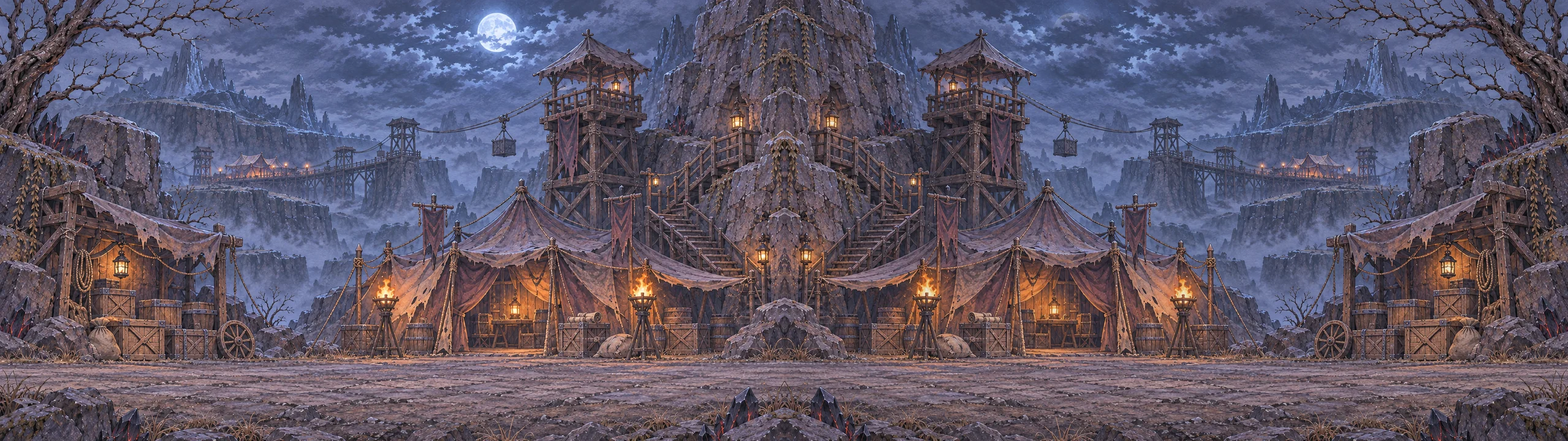
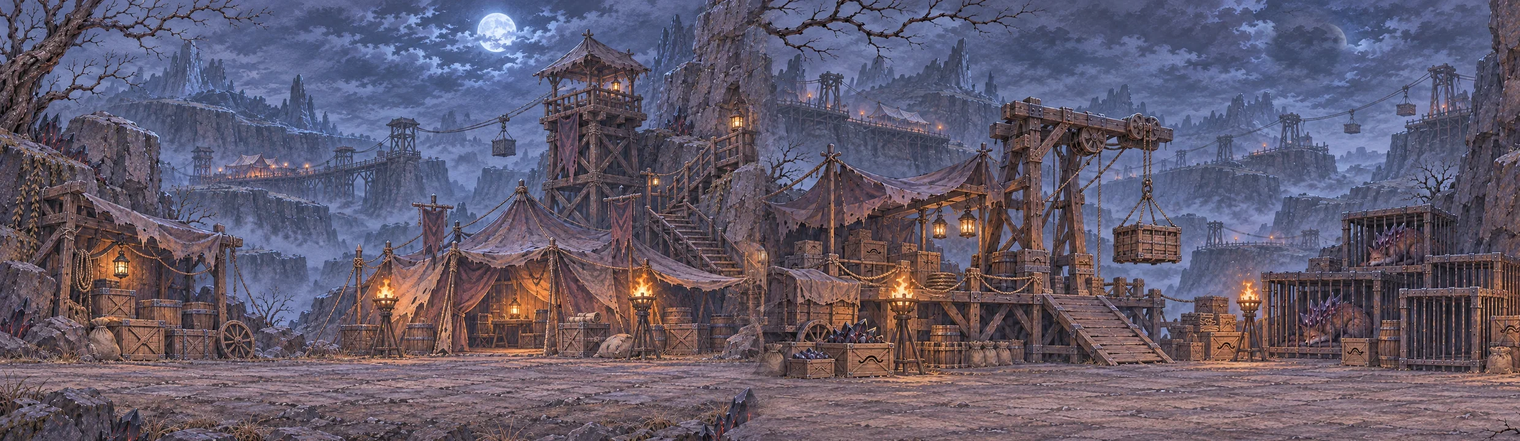
feat: 하차장 배경 2장 합성 + 천막 추격·구출 컷 4종 추가
- yard 배경을 서로 다른 GPT 그림 2장으로 합성(바닥선 정렬, 이음매 블렌딩)
- relay_chase/trapped/rope/hide 컷 일러스트 추가
- 캐시 버전 v=25

Claude-Session: https://claude.ai/code/session_01SwHSdbEEaZJxcHmirHV4co

diff --git a/games/autelia/index.html b/games/autelia/index.html
@@ -6,7 +6,7 @@
 <title>아우텔리아 (시제품)</title>
 <link rel="preconnect" href="https://fonts.googleapis.com">
 <link href="https://fonts.googleapis.com/css2?family=Noto+Sans+KR:wght@300;400;500;700&display=swap" rel="stylesheet">
-<link rel="stylesheet" href="css/game.css?v=24">
+<link rel="stylesheet" href="css/game.css?v=25">
 </head>
 <body>
 <div id="stage" tabindex="-1">
@@ -16,37 +16,37 @@
   <div id="boot">불러오는 중…</div>
 </div>
 <noscript><p style="padding:20px">이 게임은 JavaScript가 필요합니다.</p></noscript>
-<script src="js/config.js?v=24"></script>
-<script src="js/prologue/artmeta.js?v=24"></script>
-<script src="js/data.js?v=24"></script>
-<script src="js/prologue/data.js?v=24"></script>
-<script src="js/prologue/text_intro.js?v=24"></script>
-<script src="js/story1.js?v=24"></script>
-<script src="js/story_hideout.js?v=24"></script>
-<script src="js/porto_ext.js?v=24"></script>
-<script src="js/prologue/intro_timeline.js?v=24"></script>
-<script src="js/core.js?v=24"></script>
-<script src="js/tint.js?v=24"></script>
-<script src="js/systems.js?v=24"></script>
-<script src="js/profile.js?v=24"></script>
-<script src="js/prologue/art.js?v=24"></script>
-<script src="js/prologue/art2.js?v=24"></script>
-<script src="js/prologue/engine.js?v=24"></script>
-<script src="js/prologue/scenes.js?v=24"></script>
-<script src="js/mission_evidence.js?v=24"></script>
-<script src="js/real_bridge.js?v=24"></script>
-<script src="js/world.js?v=24"></script>
-<script src="js/ui.js?v=24"></script>
-<script src="js/guide.js?v=24"></script>
-<script src="js/journal_tour.js?v=24"></script>
-<script src="js/equip_tour.js?v=24"></script>
-<script src="js/scales/pss10_ko_park_seo_2010.js?v=24"></script>
-<script src="js/scales/perma_kperma_2019.js?v=24"></script>
-<script src="js/survey.js?v=24"></script>
-<script src="js/survey_ui.js?v=24"></script>
-<script src="js/sfx.js?v=24"></script>
-<script src="js/sfx_wire.js?v=24"></script>
-<script src="js/bgm.js?v=24"></script>
-<script src="js/main.js?v=24"></script>
+<script src="js/config.js?v=25"></script>
+<script src="js/prologue/artmeta.js?v=25"></script>
+<script src="js/data.js?v=25"></script>
+<script src="js/prologue/data.js?v=25"></script>
+<script src="js/prologue/text_intro.js?v=25"></script>
+<script src="js/story1.js?v=25"></script>
+<script src="js/story_hideout.js?v=25"></script>
+<script src="js/porto_ext.js?v=25"></script>
+<script src="js/prologue/intro_timeline.js?v=25"></script>
+<script src="js/core.js?v=25"></script>
+<script src="js/tint.js?v=25"></script>
+<script src="js/systems.js?v=25"></script>
+<script src="js/profile.js?v=25"></script>
+<script src="js/prologue/art.js?v=25"></script>
+<script src="js/prologue/art2.js?v=25"></script>
+<script src="js/prologue/engine.js?v=25"></script>
+<script src="js/prologue/scenes.js?v=25"></script>
+<script src="js/mission_evidence.js?v=25"></script>
+<script src="js/real_bridge.js?v=25"></script>
+<script src="js/world.js?v=25"></script>
+<script src="js/ui.js?v=25"></script>
+<script src="js/guide.js?v=25"></script>
+<script src="js/journal_tour.js?v=25"></script>
+<script src="js/equip_tour.js?v=25"></script>
+<script src="js/scales/pss10_ko_park_seo_2010.js?v=25"></script>
+<script src="js/scales/perma_kperma_2019.js?v=25"></script>
+<script src="js/survey.js?v=25"></script>
+<script src="js/survey_ui.js?v=25"></script>
+<script src="js/sfx.js?v=25"></script>
+<script src="js/sfx_wire.js?v=25"></script>
+<script src="js/bgm.js?v=25"></script>
+<script src="js/main.js?v=25"></script>
 </body>
 </html>

diff --git a/games/autelia/js/story1.js b/games/autelia/js/story1.js
@@ -136,7 +136,7 @@ window.AU = window.AU || {};
   /* 용병 하차장: 잠입 맵. 용병(시야 부채꼴)에게 들키면 입구에서 다시 시작하며, 안 들킬 때까지 몇 번이고 반복합니다.
      상자 앞에서 Space로 숨고, 기둥 뒤로 시선을 피합니다. 두 곳을 조사한 뒤 입구(왼쪽 끝)로 나가면 성공입니다. */
   AU.MAPS.yard = {
-    name: "용병 하차장", bg: "bg_yard", width: 2558, safe: false, stealth: true,
+    name: "용병 하차장", bg: "bg_yard", width: 2480, safe: false, stealth: true,
     stealthMission: { quest: "q_a3_recon", flag: "yard_clear", start: 120 }, hideSpots: [{ x: 880 }, { x: 1480 }, { x: 2040 }], blockers: [{ x: 1240 }, { x: 1800 }],
     platforms: [{ x: 0, y: 590, w: 2558 }], ropes: [],
     portals: [{ x: 40, to: "valley", toX: 620, label: "검은 골짜기" }],
